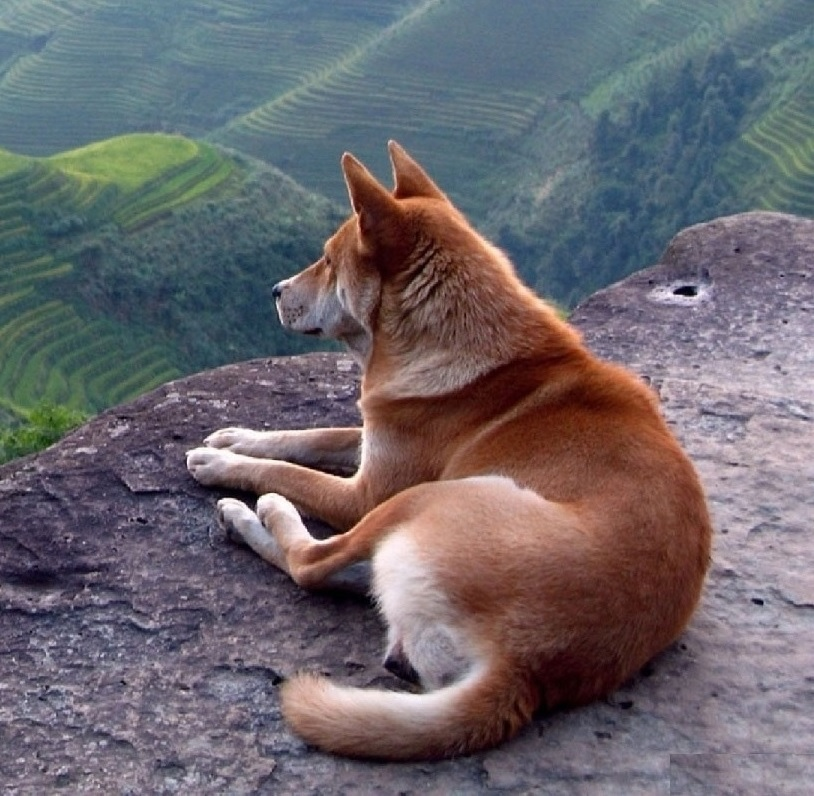
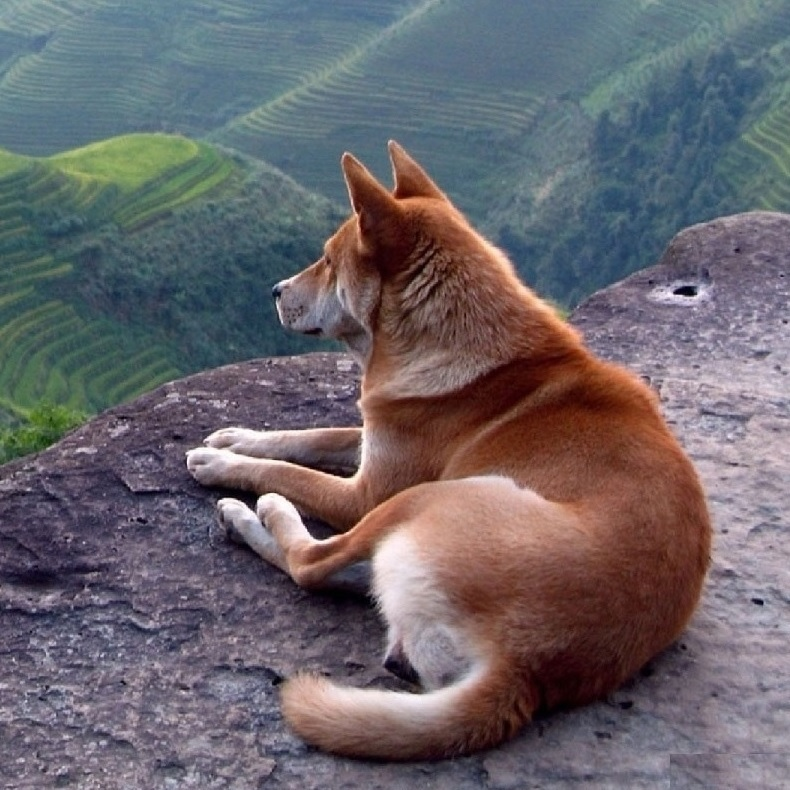
Fix image size

diff --git a/index.html b/index.html
@@ -16,7 +16,7 @@
 	<a href="">Contact</a>
   </nav>
   <div id="top">
-	<img id="profile" src="img/profile.jpg" alt="doge">
+	<img id="profile" src="img/profile.jpg" class="img-circle" alt="doge">
     <h1>Scott Huang</h1>
     <h2>Hello</h2>
     <p>It's me.</p>

diff --git a/css/index.css b/css/index.css
@@ -37,7 +37,13 @@ nav a:hover
 
 #profile
 {
-	border-radius: 50%;
+	width: 400px;
+	height: 400px;
+	border-radius: 200px;
+	display: block;
+	margin-left: auto;
+	margin-right: auto;
+	padding: 32px 0 0 0;
 }
 
 h1, h2, p
